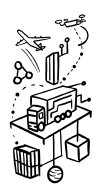
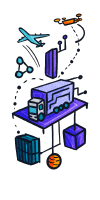
update illustrations

diff --git a/pages/index.tsx b/pages/index.tsx
@@ -99,7 +99,7 @@ const Home: NextPage<HomePageProps> = (props) => {
                   </PageIntroBlock.Actions>
                 </PageIntroBlock.Content>
                 <PageIntroBlock.Image
-                  src="/home/introduction.jpg"
+                  src="/home/introduction.png"
                   alt="The world’s first Decentralized Knowledge Graph"
                 />
               </PageIntroBlock>
@@ -114,7 +114,7 @@ const Home: NextPage<HomePageProps> = (props) => {
                   />
                   <MetricsBlock.Metrics>
                     <MetricsBlock.Metric
-                      icon="/metrics/market-cap.jpg"
+                      icon="/metrics/market-cap.png"
                       value={market.marketCap}
                       label="Total Market Cap"
                       currency="USD"
@@ -122,14 +122,14 @@ const Home: NextPage<HomePageProps> = (props) => {
                       style="currency"
                     />
                     <MetricsBlock.Metric
-                      icon="/metrics/price.jpg"
+                      icon="/metrics/price.png"
                       value={market.price}
                       label="Price"
                       currency="USD"
                       style="currency"
                     />
                     <MetricsBlock.Metric
-                      icon="/metrics/max-supply.jpg"
+                      icon="/metrics/max-supply.png"
                       value={500000000}
                       notation="compact"
                       label="Max Supply"
@@ -144,19 +144,19 @@ const Home: NextPage<HomePageProps> = (props) => {
                   />
                   <MetricsBlock.Metrics>
                     <MetricsBlock.Metric
-                      icon="/metrics/total-graph-size.jpg"
+                      icon="/metrics/total-graph-size.png"
                       value={network.activeNodes}
                       notation="compact"
                       label="Active Nodes"
                     />
                     <MetricsBlock.Metric
-                      icon="/metrics/dataset-published.jpg"
+                      icon="/metrics/dataset-published.png"
                       value={network.totalJobs}
                       notation="compact"
                       label="Total Datasets Published"
                     />
                     <MetricsBlock.Metric
-                      icon="/metrics/total-tokens-staked.jpg"
+                      icon="/metrics/total-tokens-staked.png"
                       value={network.stakedTokens}
                       notation="compact"
                       label="Total Tokens Staked"
@@ -446,17 +446,17 @@ const Home: NextPage<HomePageProps> = (props) => {
             <Grid.Group>
               <Grid.Item>
                 <ImageBlock>
-                  <ImageBlock.Image 
-                    src="/home/network-of-nodes-desktop.jpg"
+                  <ImageBlock.Image
+                    src="/home/network-of-nodes-desktop.png"
                     alt="Helping the world unlock the true potential of data assets"
                     minBreakpoint="@bp4"
-                    ratio={360 / 1296}                 
+                    ratio={432 / 1234}
                   />
-                  <ImageBlock.Image 
-                    src="/home/network-of-nodes-mobile.jpg"
+                  <ImageBlock.Image
+                    src="/home/network-of-nodes-mobile.png"
                     alt="Helping the world unlock the true potential of data assets"
                     maxBreakpoint="@bp4"
-                    ratio={432 / 720}                 
+                    ratio={432 / 720}
                   />
                 </ImageBlock>
               </Grid.Item>
@@ -489,6 +489,11 @@ const Home: NextPage<HomePageProps> = (props) => {
                     date={new Date(2018, 11, 7)}
                     title="Ethereum"
                     icon="/blockchain-timeline/ethereum.svg"
+                  />
+                  <TimelineBlock.Event
+                    date={new Date(2018, 11, 7)}
+                    title="Hyperledger"
+                    icon="/blockchain-timeline/hyperledger.svg"
                   />
                   <TimelineBlock.Event
                     date={new Date(2021, 2, 23)}
@@ -528,7 +533,7 @@ const Home: NextPage<HomePageProps> = (props) => {
                     />
                   </ArticleBlock.Content>
                   <ArticleBlock.Image
-                    src="/home/network-participants.jpg"
+                    src="/home/network-participants.png"
                     alt="The four network participants"
                   />
                 </ArticleBlock>
@@ -537,7 +542,7 @@ const Home: NextPage<HomePageProps> = (props) => {
                 <ParticipantsBlock aria-label="Network Participants">
                   <ParticipantsBlock.Participant value="Data Providers">
                     <ParticipantsBlock.Image
-                      src="/participants/data-provider.jpg"
+                      src="/participants/data-provider.png"
                       alt="Data Providers"
                     />
                     <ParticipantsBlock.Title>
@@ -550,7 +555,7 @@ const Home: NextPage<HomePageProps> = (props) => {
                   </ParticipantsBlock.Participant>
                   <ParticipantsBlock.Participant value="Data Creators">
                     <ParticipantsBlock.Image
-                      src="/participants/data-creator.jpg"
+                      src="/participants/data-creator.png"
                       alt="Data Creators"
                     />
                     <ParticipantsBlock.Title>
@@ -563,7 +568,7 @@ const Home: NextPage<HomePageProps> = (props) => {
                   </ParticipantsBlock.Participant>
                   <ParticipantsBlock.Participant value="Data Holders">
                     <ParticipantsBlock.Image
-                      src="/participants/data-holder.jpg"
+                      src="/participants/data-holder.png"
                       alt="Data Holders"
                     />
                     <ParticipantsBlock.Title>
@@ -576,7 +581,7 @@ const Home: NextPage<HomePageProps> = (props) => {
                   </ParticipantsBlock.Participant>
                   <ParticipantsBlock.Participant value="Data Viewers">
                     <ParticipantsBlock.Image
-                      src="/participants/data-viewer.jpg"
+                      src="/participants/data-viewer.png"
                       alt="Data Viewers"
                     />
                     <ParticipantsBlock.Title>
@@ -763,7 +768,7 @@ const Home: NextPage<HomePageProps> = (props) => {
                       alt="World economic forum"
                     />
                     <CompaniesBlock.Company
-                      src="/ecosystem/gs1.png"
+                      src="/ecosystem/gs1-slovenija.png"
                       alt="GS1 Slovenia"
                     />
                     <CompaniesBlock.Company
